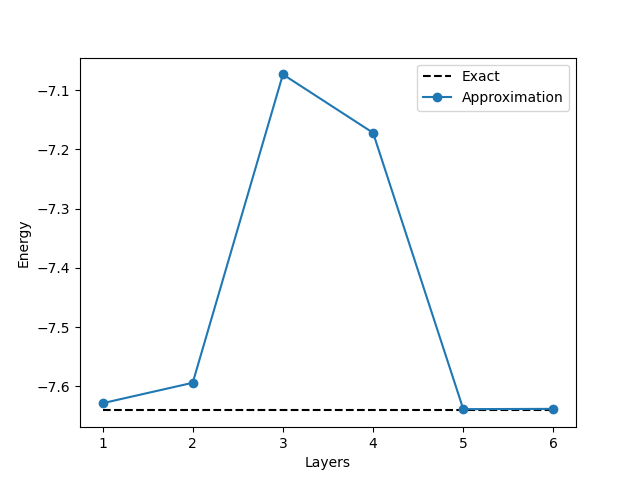
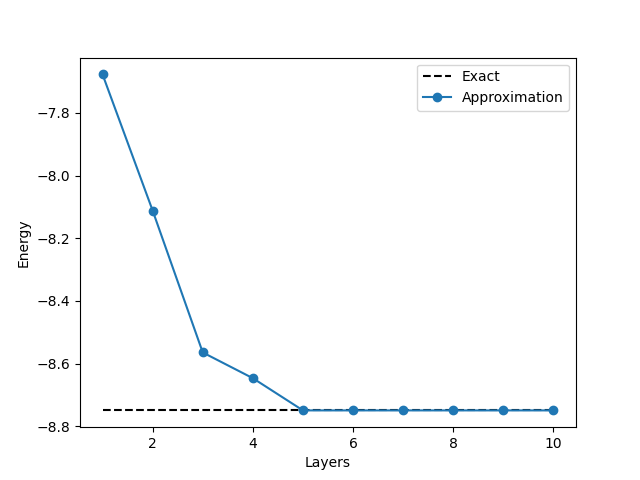
some plots

diff --git a/Luca/Coding and Latex/Python/plots_9.py b/Luca/Coding and Latex/Python/plots_9.py
@@ -5,7 +5,7 @@ import Entropy as en
 import matplotlib.pyplot as plt
 
 N = 8
-exactD = ed.exactDiag(N, 1, 0.5)
+exactD = ed.exactDiag(N, 1, 0.8)
 psiTarget = exactD[2].reshape(tuple([2]*N))
 exactE = exactD[1]
 H = exactD[0]
@@ -21,7 +21,7 @@ def plotEnergy(psiTarget,exactE,H,maxLayers):
 
 	for layer in x:
 		circuit = bw.BrickWallCircuit(N, layer)
-		approx = circuit.optimize(psiTarget,0.00001,1000).flatten()
+		approx = circuit.optimize(psiTarget,0.00001,1000*layer).flatten()
 		E.append(np.vdot(approx,np.matmul(H,approx)))
 
 	ax.plot(x,E,'o-',label='Approximation')
@@ -40,7 +40,7 @@ def plotOvelap(psiTarget,maxLayers):
 
 	for layer in x:
 		circuit = bw.BrickWallCircuit(N, layer)
-		approx = circuit.optimize(psiTarget,0.00001,1000).flatten()
+		approx = circuit.optimize(psiTarget,0.00001,1000*layer).flatten()
 		overlap.append(np.abs(np.vdot(approx,psiTarget.flatten())))
 
 	ax.plot(x,1-np.array(overlap),'o-',label='Approximation')
@@ -131,7 +131,7 @@ def plotJ(psiTarget,layers,log=False):
 
 #plotS(psiTarget,[1,2,3])
 #plotMatrixI(psiTarget, [1,2,3])
-#plotJ(psiTarget, [1,2,3],False)
-#plotEnergy(psiTarget, exactE, H, 6)
+#plotJ(psiTarget, [1,2,3],True)
+plotEnergy(psiTarget, exactE, H, 10)
 #plotOvelap(psiTarget, 10)
 

diff --git a/Luca/Coding and Latex/Python/testing.py b/Luca/Coding and Latex/Python/testing.py
@@ -4,7 +4,7 @@ import ExactDiag_21 as ed
 import Entropy as en
 
 circuit = bw.BrickWallCircuit(8,3, gatesRandomFlag=False)
-psiTarget = ed.exactDiag(circuit.N, 1.5, 1)[1].reshape(tuple([2]*circuit.N))
+psiTarget = ed.exactDiag(circuit.N, 1.5, 1)[2].reshape(tuple([2]*circuit.N))
 #psiTarget = (1/np.sqrt(2))*np.array([1,0,0,1]).reshape(2,2) #bell state
 # A = [1,4,5]
 # B = [2]

diff --git a/Luca/Coding and Latex/Python/Entropy.py b/Luca/Coding and Latex/Python/Entropy.py
@@ -22,7 +22,3 @@ def J(d,psiTarget):
 def matrixI(psiTarget):
 	nrQubits = len(psiTarget.shape)
 	return [[I([i],[j],psiTarget) for j in range(1,nrQubits+1)] for i in range(1,nrQubits+1)]
-
-
-psiTarget =  ed.exactDiag(6, 1, 1)
-I(1,2, psiTarget)
